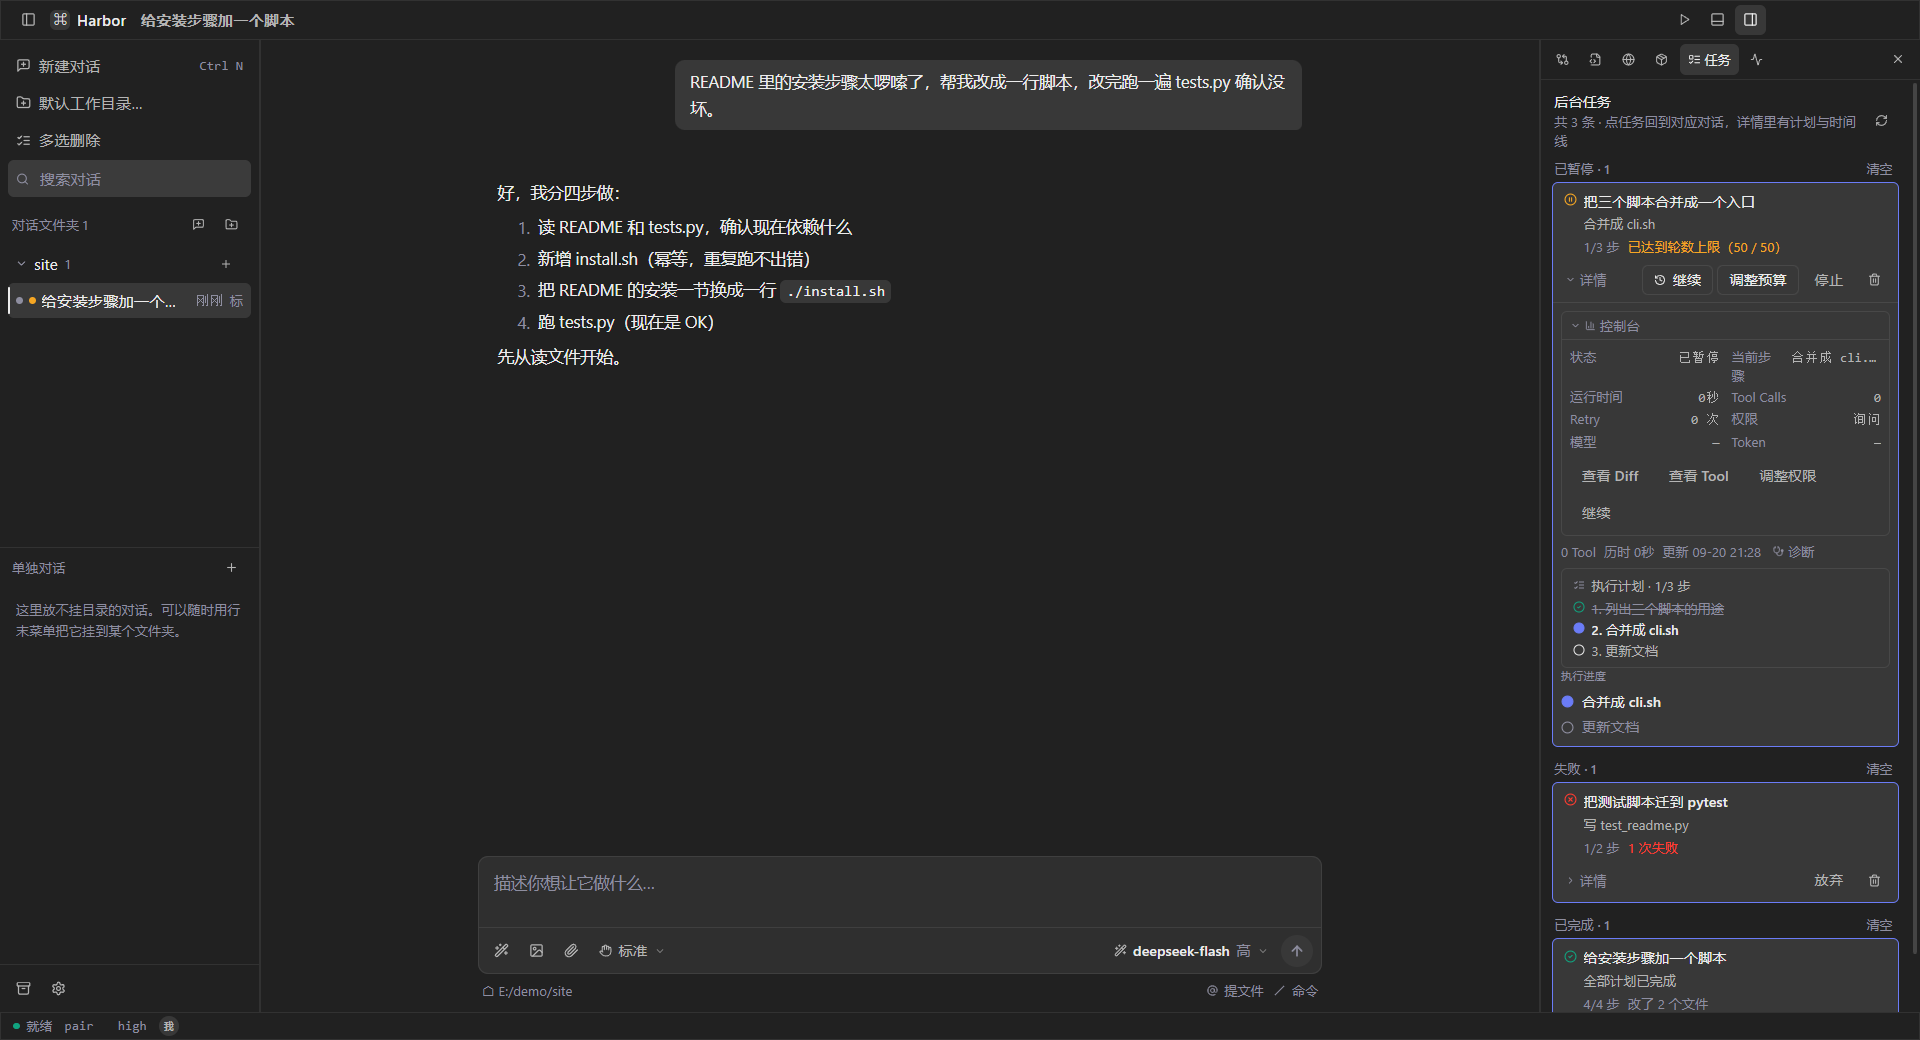
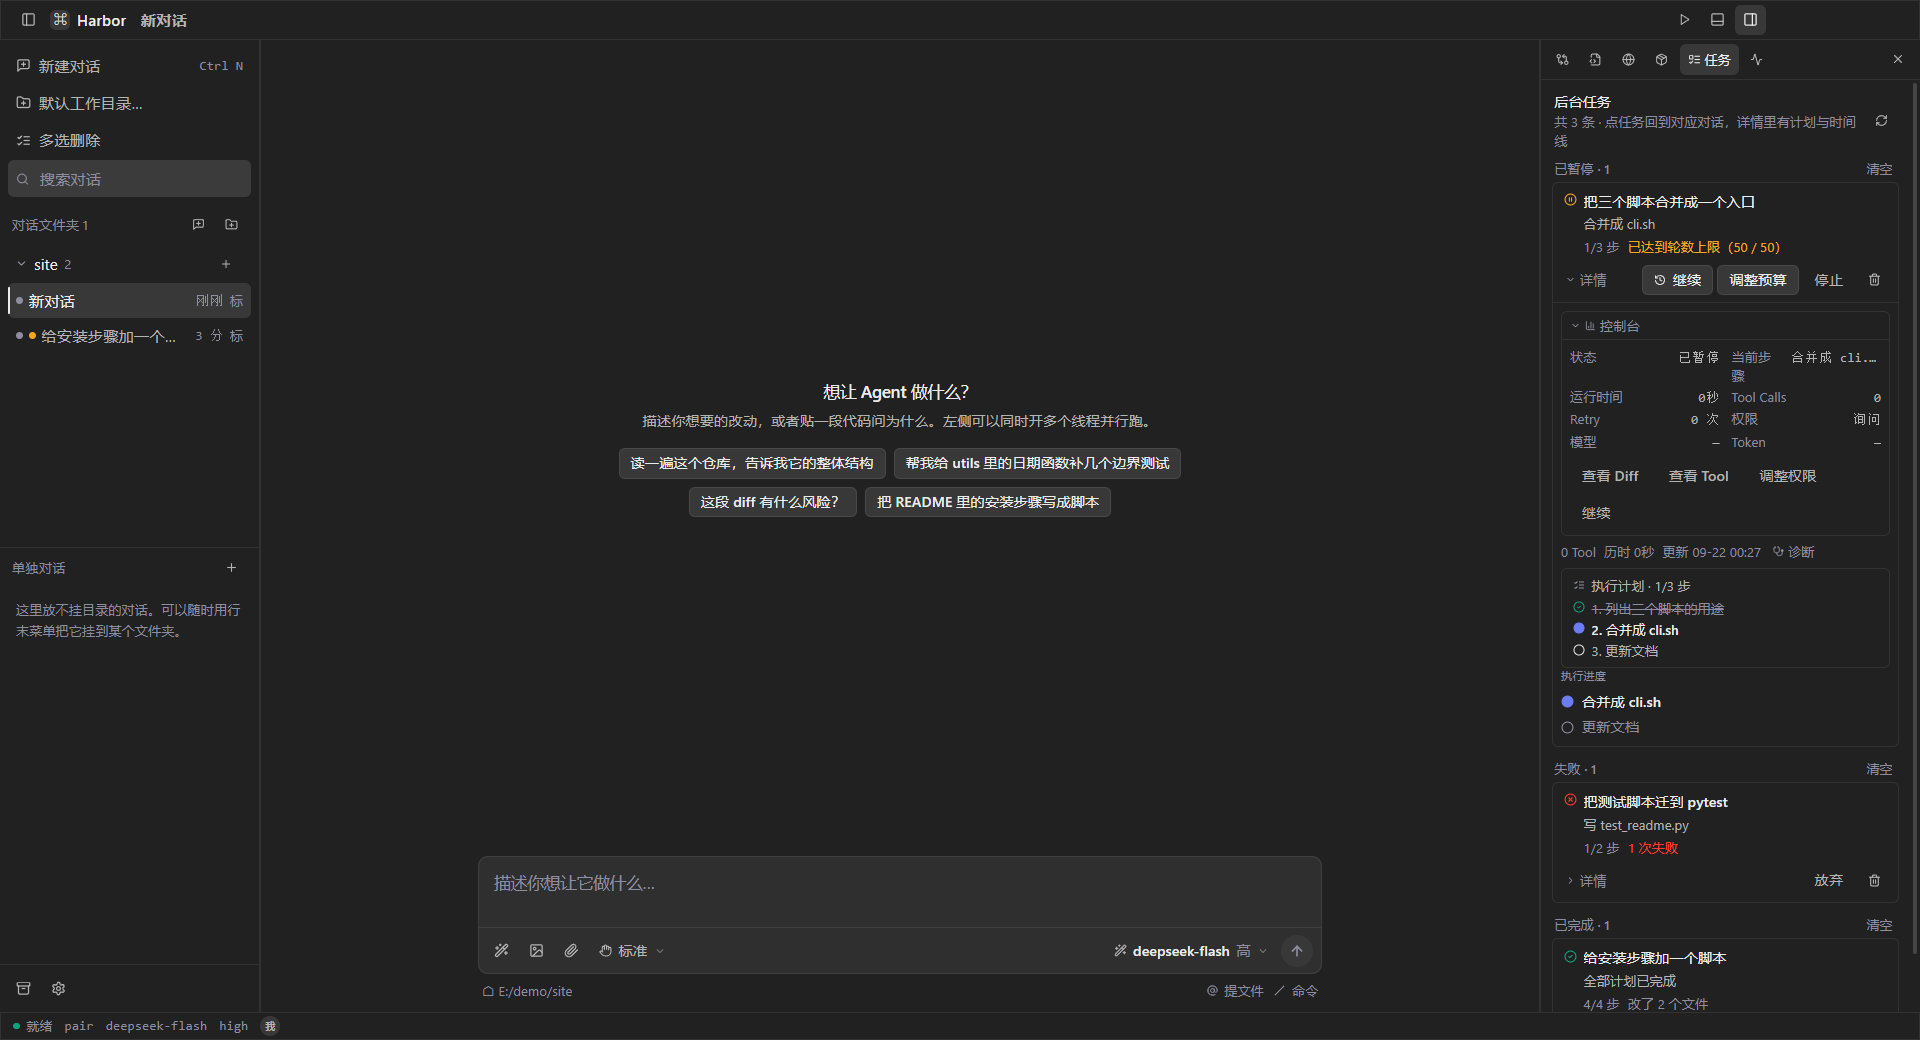
窗口标题改回品牌（index.html 还写着 Personal Agent，OS 标题栏/任务栏都是旧名）+ 加守卫断言；README 两张截图按当前界面重拍

diff --git a/index.html b/index.html
@@ -3,7 +3,7 @@
   <head>
     <meta charset="UTF-8" />
     <meta name="viewport" content="width=device-width, initial-scale=1.0" />
-    <title>Personal Agent</title>
+    <title>Harbor</title>
     <meta name="color-scheme" content="dark light" />
   </head>
   <body>
